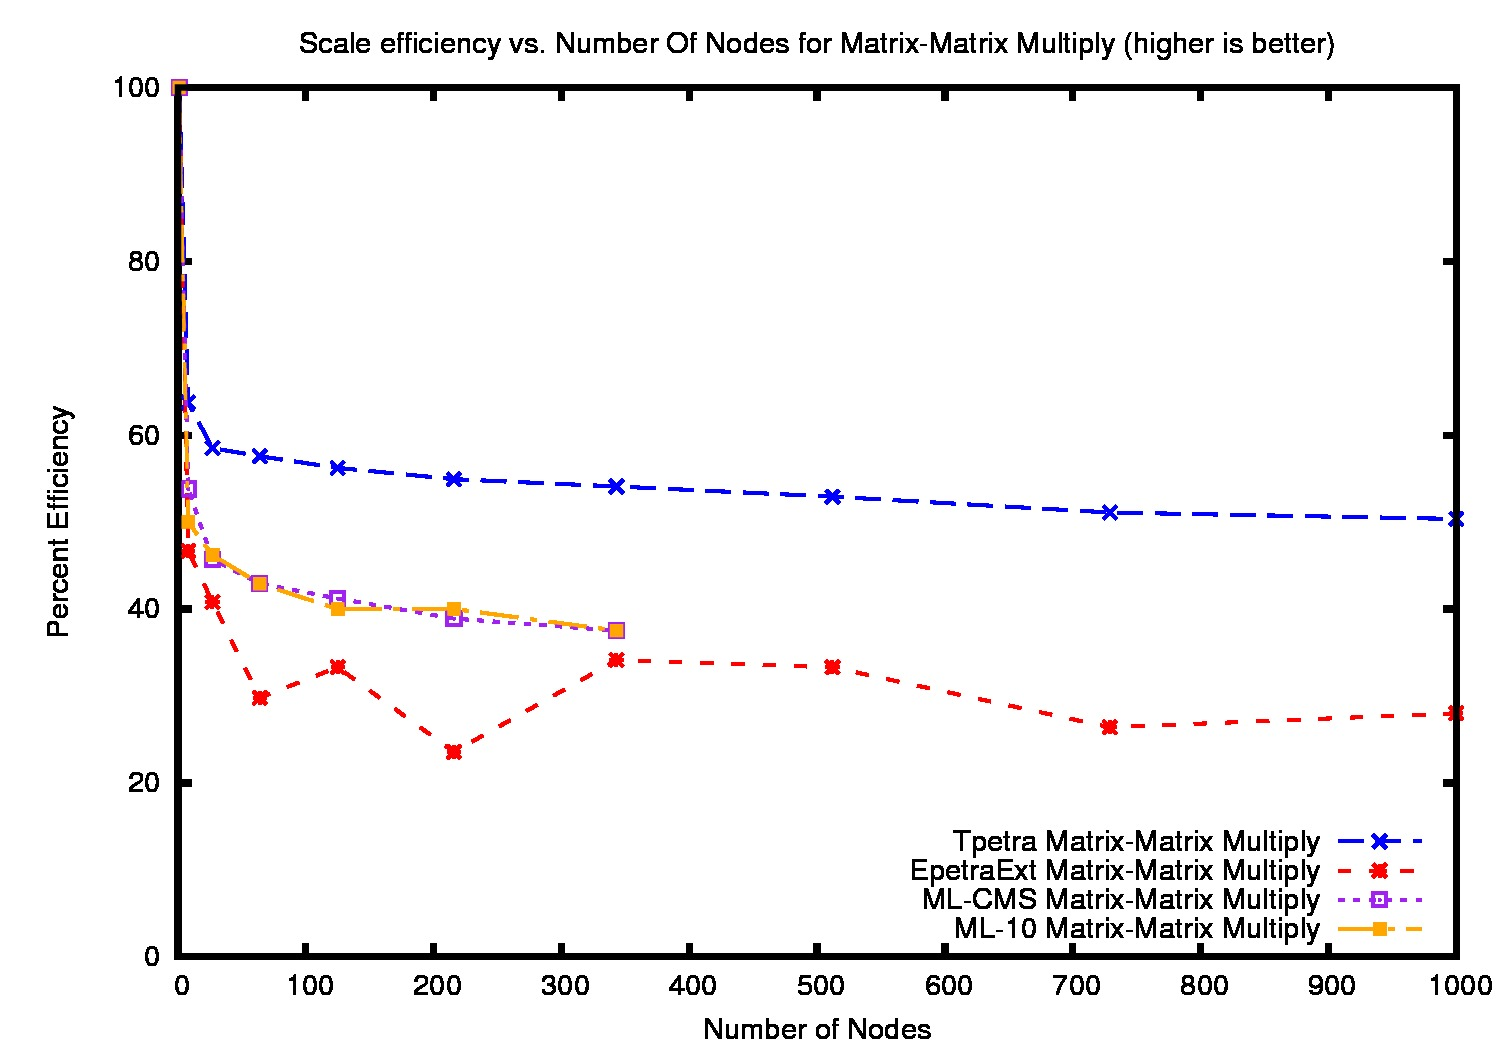
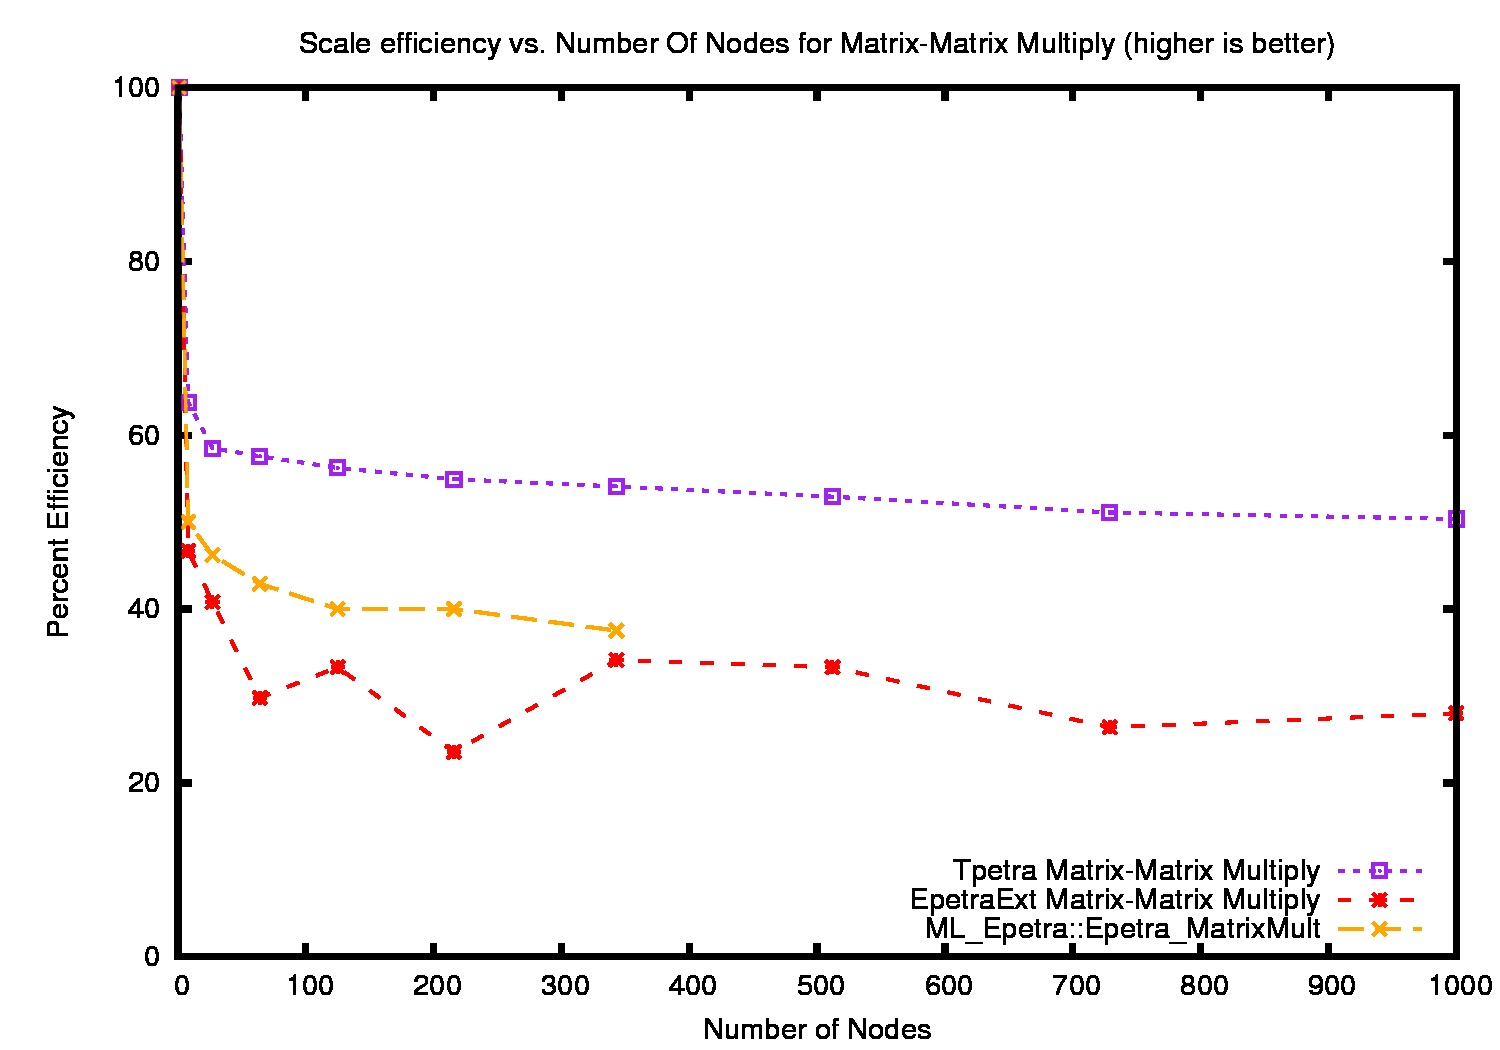
Fixed the graphs in the Tpetra vs. EpetraExt vs. ML per chris's suggestions along with makeing some other things more clear in that section.
-Kurtis

diff --git a/packages/tpetra/doc/MatrixMatrixReport/matmatreport.tex b/packages/tpetra/doc/MatrixMatrixReport/matmatreport.tex
@@ -16,6 +16,8 @@
 \usepackage[usenames]{color}
 \definecolor{jhuGreen}{rgb}{0,.7,.4}
 \newcommand{\JJH}[1]{\textcolor{jhuGreen}{JJH: #1}}
+\definecolor{klnBlue}{rgb}{.2,.1,.7}
+\newcommand{\KLN}[1]{\textcolor{klnBlue}{KLN: #1}}
 
 \newcommand{\mahts}[1]{\textsuperscript{#1}}
 \newcommand{\Aprime}{\ensuremath{A'}\xspace}
@@ -80,13 +82,11 @@ If the arrays are not sorted, a quicksort is performed on the arrays.
 
 \subsection{Removal of Specific Transpose Mode Kernels}
 In the original ExpetraExt algorithm there was actually a separate kernel for each possible transpose combination 
-%(e.g. A\mahts{T}*B, A*B\mahts{T}, and A\mahts{T}*B\mahts{T}).
-(e.g., $A^{T}B$, $AB^T$, and $A^TB^T$).
+(e.g., $A^TB$, $AB^T$, and $A^TB^T$).
 Some of these kernels relied on a function called \verb!find_rows_containing_columns!. The relevant things to know about this 
 function is that one of its arguments was a matrix and during execution it created an array that was of size 
 $N_c+ 2N_p + N_p N_r$, where
 $N_c$, $N_p$, and $N_r$ are the number of columns, processors, and rows, respectively.
-%$$\mbox{NumberOfColumns}+2\mbox{NumberOfProcessors}+\mbox{NumberOfProcessors}*\mbox{NumberOfRows}$$.
 Obviously this is not scalable. At anything but the lowest processor counts, this array quickly balloons to a size that 
 won't fit in memory. We decided to just remove this function and the specific transpose kernels. Tpetra has a very fast 
 transposer that we now use instead. We take what ever the given matrices are, transpose them to the users specification, 
@@ -103,6 +103,9 @@ that the values calculated are actually inserted into matrix $C$. We modified th
 takes an argument which indicates whether or not we're just calculating the graph for matrix $C$. If we're just calculating 
 the graph, all the value calculation is skipped.
 \JJH{Can you quantify the difference in performance that just this change makes?}
+\KLN{Yes. So how ever many actualy $A_ij*B_ji$, let's call that $Nnzm$. How do I say intelligently that we do
+$Nnzm$ less operations?}
+
 
 \section{Performance}
 We conducted a series of weak-scaling studies on the Hopper NERSC machine. Hopper is a Cray XE6 with 24 cores
@@ -140,7 +143,9 @@ throughout various stages of its development. Note this is a simple $C=A*B$; so 
 \subsection{Tpetra vs. EpetraExt vs. ML}
 Figure~\ref{totaltime} and Figure~\ref{totaleff} show the test results of comparing the Tpetra matrix-matrix multiply routine 
 (with all of its optimizations) to the other matrix-matrix multiply routines in Trilinos~\cite{1089021} (namely the original EpetraExt 
-routine and ML's Epetra matrix-matrix multiply routine). These tests were conducted in the same manner as our development stages comparison. 
+routine and a slightly modified version ML's Epetra matrix-matrix multiply routine~\footnote{The only difference between the ML's Epetra matrix-matrix
+multiply and the one we used in our test is that we modified the routine to use ML's matrix storage when assembling matrix $C$ rather than Epetra's}). 
+These tests were conducted in the same manner as our development stages comparison. 
 The encouraging thing about these results is that the Tpetra algorithm is as good as if not better than the EpetraExt 
 algorithm at scale. It should be noted that the ML lines are cut short because at the next problem size in our testing, 
 they would fail due to a memory error. Consequently, we could not run tests for greater problem sizes with ML. 
